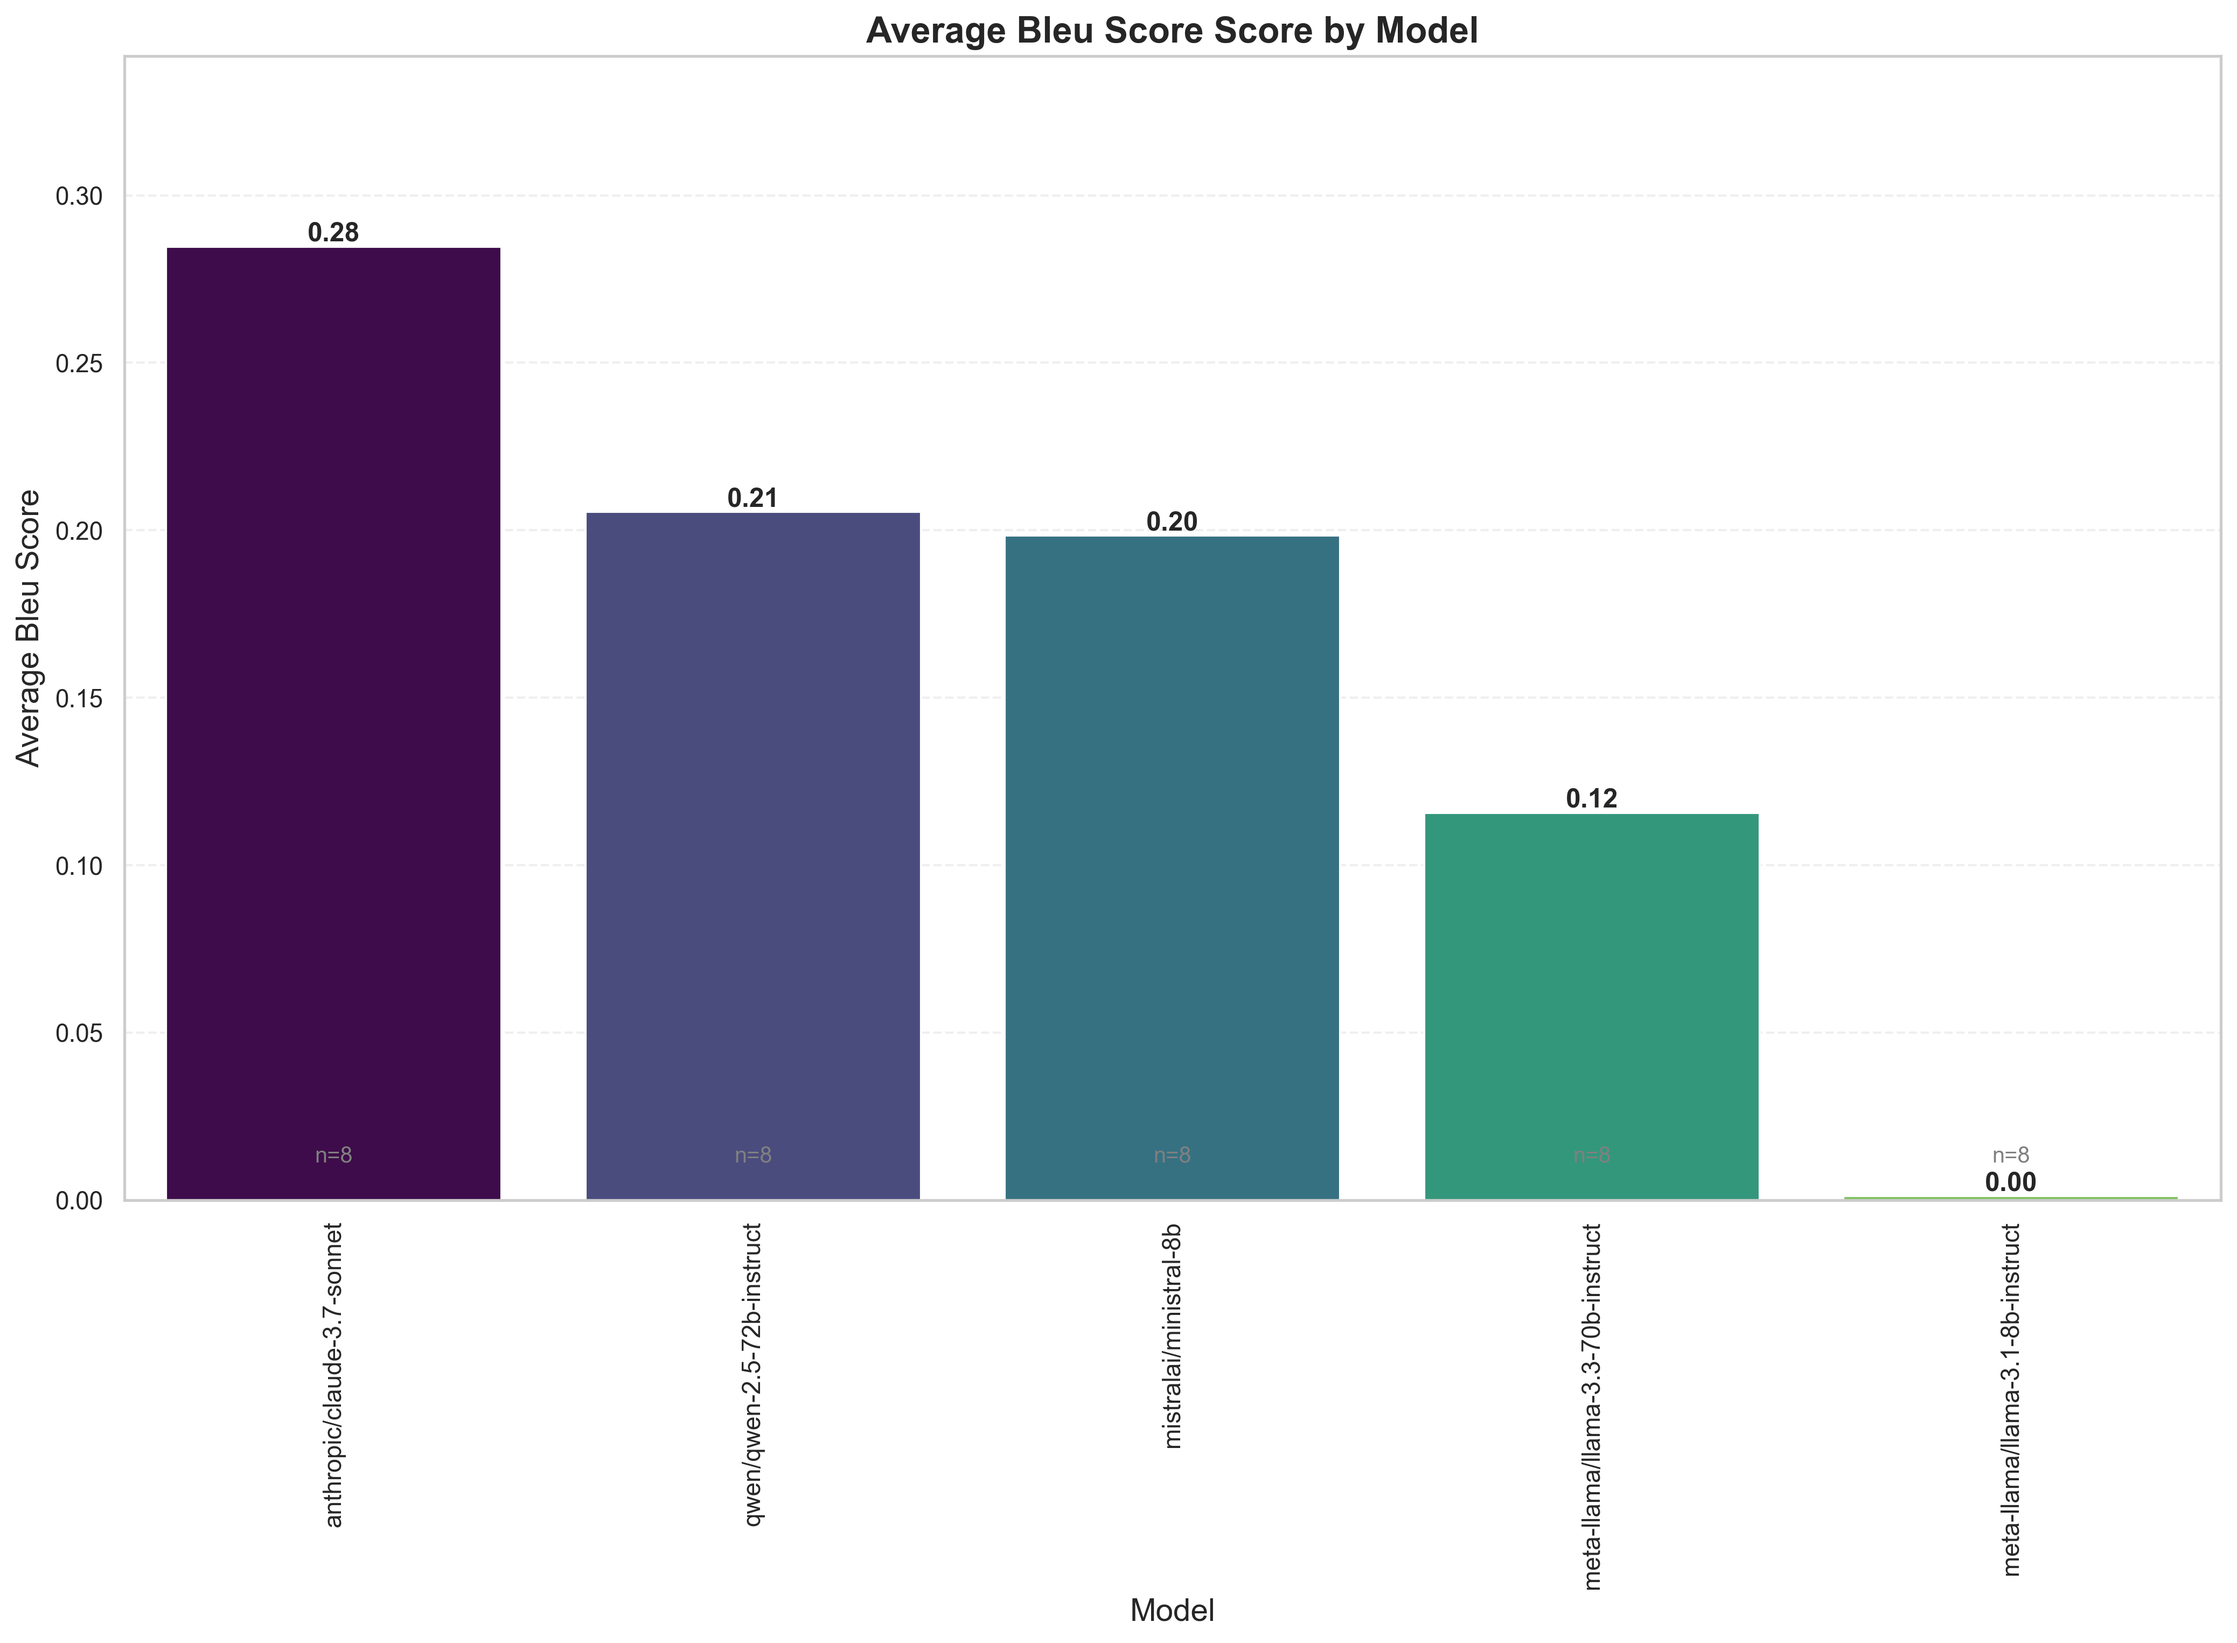
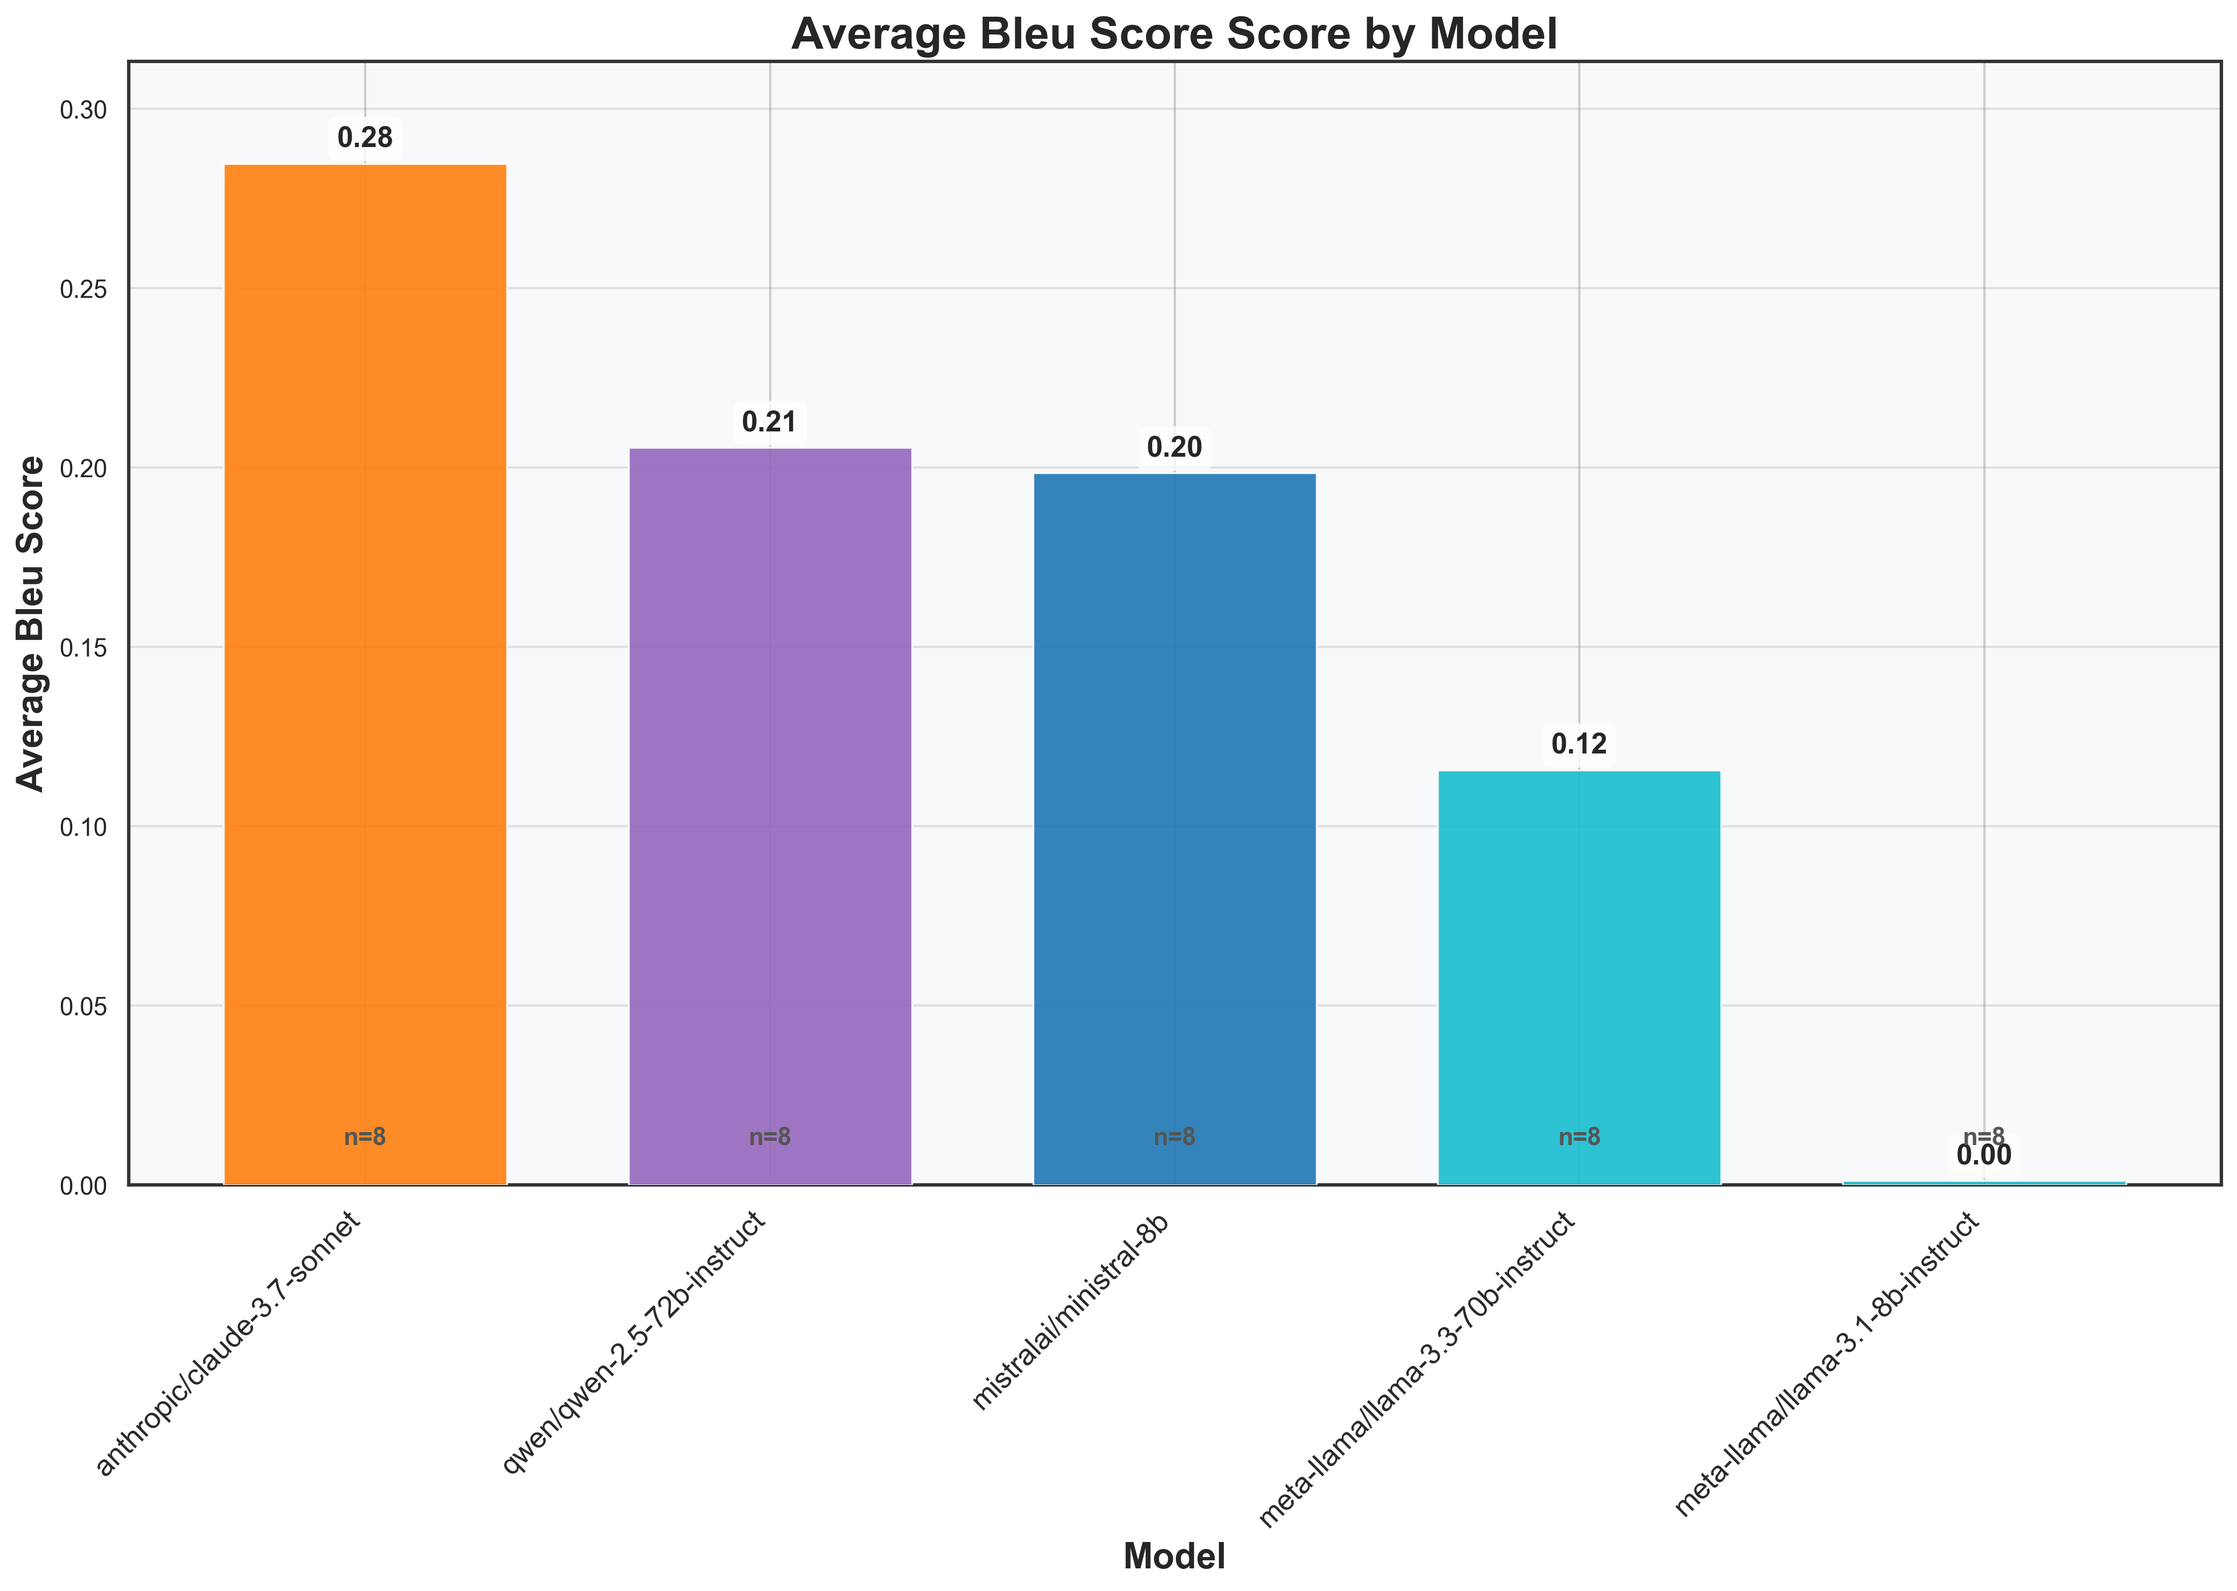
Enhance singel Ragas metrics chart visuals with better styling, formatting

diff --git a/backend/app/utils/chart_generator.py b/backend/app/utils/chart_generator.py
@@ -195,63 +195,108 @@ class ChartGenerator:
             logger.warning(f"No data found for metric: {metric_name}")
             return "No data available"
         
-        # Create the figure with white background
-        plt.figure(figsize=(14, 10), facecolor='white')
+        # Close any existing plots and start fresh
+        plt.close('all')
         
-        # Create a bar plot with improved styling
-        # Use a different, darker color palette
-        colors = plt.cm.viridis(np.linspace(0, 0.8, len(df)))
+        # Create a new figure with improved size and white background
+        fig, ax = plt.subplots(figsize=(14, 10), facecolor='white')
         
-        # Create a bar plot
-        ax = sns.barplot(
-            data=df,
-            x='model_name',
-            y='avg_score',
-            palette=colors
+        # Get model names and scores
+        models = df['model_name'].tolist()
+        scores = df['avg_score'].tolist()
+        query_counts = df['query_count'].tolist()
+        
+        # Number of models
+        num_models = len(models)
+        
+        # Define a vibrant color palette - using custom colors for better clarity
+        # Use a more visually appealing blue gradient
+        base_color = '#1f77b4'  # Base blue color
+        colors = []
+        
+        # Define model-specific colors
+        for model in models:
+            if 'claude' in model.lower():
+                colors.append('#ff7f0e')  # Orange for Claude models
+            elif 'gpt' in model.lower() or 'openai' in model.lower():
+                colors.append('#e377c2')  # Pink for GPT/OpenAI models
+            elif 'gemini' in model.lower():
+                colors.append('#2ca02c')  # Green for Gemini models
+            elif 'llama' in model.lower():
+                colors.append('#17becf')  # Teal for Llama models (changed from red)
+            elif 'qwen' in model.lower():
+                colors.append('#9467bd')  # Purple for Qwen models
+            else:
+                colors.append(base_color)  # Default blue for other models
+        
+        # Create x positions
+        x = np.arange(num_models)
+        
+        # Create bars with increased width for better visibility
+        bar_width = 0.7
+        # Create bars with enhanced visual appeal - add gradient effect
+        bars = ax.bar(
+            x, 
+            scores, 
+            width=bar_width, 
+            color=colors, 
+            zorder=5,
+            edgecolor='white',  # White edges for better definition
+            linewidth=0.8,      # Subtle edge lines
+            alpha=0.9           # Slight transparency for better look
         )
         
-        # Add labels and title
+        # Add a light background color for better visual appeal
+        ax.set_facecolor('#f8f9fa')  # Very light gray background
+        
+        # Add labels and title with improved formatting
         formatted_metric = ' '.join(word.capitalize() for word in metric_name.split('_'))
-        plt.title(f'Average {formatted_metric} Score by Model', fontsize=16, fontweight='bold')
-        plt.xlabel('Model', fontsize=14)
-        plt.ylabel(f'Average {formatted_metric}', fontsize=14)
+        ax.set_title(f'Average {formatted_metric} Score by Model', fontsize=20, fontweight='bold')
+        ax.set_xlabel('Model', fontsize=16, fontweight='bold')
+        ax.set_ylabel(f'Average {formatted_metric}', fontsize=16, fontweight='bold')
         
-        # Fix overlapping model names by rotating them vertically and adjusting figure size
-        plt.xticks(rotation=90, ha='center')
+        # Add grid lines behind the bars
+        ax.grid(axis='y', linestyle='-', alpha=0.2, color='gray', zorder=0)
         
-        # Set reasonable y-axis limits
-        max_score = df['avg_score'].max()
-        plt.ylim(0, min(1.0, max_score * 1.2))  # Cap at 1.0 or 20% above max score
+        # Set x-tick positions and labels with proper rotation
+        ax.set_xticks(x)
+        ax.set_xticklabels(models, rotation=45, ha='right', fontsize=13)
         
-        # Add grid for better readability
-        plt.grid(axis='y', linestyle='--', alpha=0.3)
+        # Set y-axis limits for better visualization
+        max_score = max(scores)
+        ax.set_ylim(0, min(1.0, max_score * 1.1))  # Cap at 1.0 or 10% above max score
+        
+        # Improve axis appearance
+        for spine in ax.spines.values():
+            spine.set_linewidth(1.5)  # Thicker border
+            spine.set_color('#333333')  # Darker border for better definition
         
         # Add data labels on top of bars
-        for p in ax.patches:
-            ax.annotate(f'{p.get_height():.2f}', 
-                      (p.get_x() + p.get_width() / 2., p.get_height()),
-                      ha='center', va='bottom',
-                      fontsize=12, fontweight='bold')
+        for i, bar in enumerate(bars):
+            height = bar.get_height()
+            ax.annotate(f'{height:.2f}', 
+                      xy=(bar.get_x() + bar.get_width() / 2, height),
+                      xytext=(0, 5),  # 5 points vertical offset for better spacing
+                      textcoords="offset points",
+                       ha='center', va='bottom',
+                       fontsize=13, fontweight='bold', zorder=10,
+                       bbox=dict(boxstyle="round,pad=0.3", fc="white", ec="none", alpha=0.8))  # Add subtle text background
         
-        # Add the number of queries per model at the bottom
-        for i, count in enumerate(df['query_count']):
+        # Add the number of queries per model at the bottom of each bar
+        for i, count in enumerate(query_counts):
             ax.annotate(f'n={count}',
-                      (i, 0.01),
-                      ha='center', va='bottom',
-                      fontsize=10, color='gray')
+                      xy=(x[i], 0.01),
+                       ha='center', va='bottom',
+                       fontsize=11, color='#555555', zorder=10, fontweight='bold')
         
-        # Create shorter model names for the legend by cropping very long names
-        df['short_name'] = df['model_name'].apply(lambda x: 
-            (x[:25] + '...') if len(x) > 28 else x)
-        
-        # Adjust layout to accommodate the rotated x labels
-        plt.tight_layout()
-        
-        # Add padding at the bottom for model names
+        # Add more padding at the bottom for model names
         plt.subplots_adjust(bottom=0.25)
         
+        # Adjust layout
+        fig.tight_layout()
+        
         # Save the figure with higher resolution
-        return self._save_figure(f"model_comparison_{metric_name}", dpi=300)
+        return self._save_figure(f"model_comparison_{metric_name}", fig=fig, dpi=300)
     
     def metric_comparison_chart(self, model_name: str) -> str:
         """
@@ -415,7 +460,7 @@ class ChartGenerator:
         elif model_name.lower().startswith('gemini'):
             model_color = '#2ca02c'  # Green for Gemini models
         elif model_name.lower().startswith('llama'):
-            model_color = '#d62728'  # Red for Llama models
+            model_color = '#17becf'  # Teal for Llama models (changed from red)
         
         # Plot the polygon with higher line width
         ax.plot(angles, values, linewidth=3, linestyle='solid', color=model_color)
@@ -1170,7 +1215,7 @@ class ChartGenerator:
             '#1f77b4',  # Blue (nova-pro-v1)
             '#ff7f0e',  # Orange (claude-3.7-sonnet) 
             '#2ca02c',  # Green (gemini-2.5-flash-preview)
-            '#d62728',  # Red (llama-3.1-8b-instruct)
+            '#17becf',  # Teal (llama-3.1-8b-instruct)
             '#9467bd',  # Purple (llama-3.3-70b-instruct)
             '#8c564b',  # Brown (mistral-8b)
             '#e377c2',  # Pink (gpt-4o-2024-11-20)
